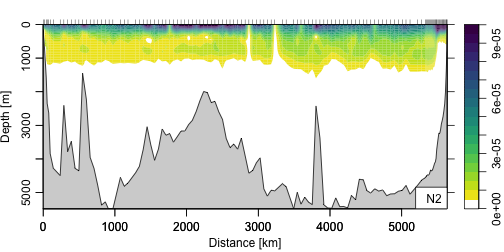
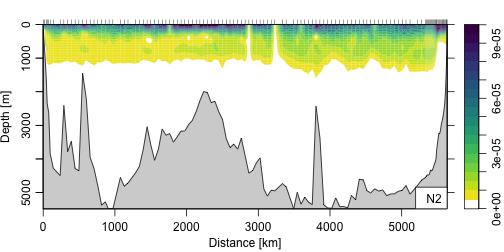
update N2 post

diff --git a/_posts/2016-02-29-calculating-N2-for-argo-section-objects.md b/_posts/2016-02-29-calculating-N2-for-argo-section-objects.md
@@ -61,13 +61,10 @@ Note that I've gridded the argo fields so the matrices are at consistent pressur
 
 {% highlight r %}
 N2 <- function(x) {
-    ok <- !is.na(x)
-    approx(argo[['pressure']][ok,1],
-           swN2(argo[['pressure']][ok,1], x[ok], df=50),
-           argo[['pressure']][,1])$y
+    swN2(argo[['pressure']][,1], x, df=50)
 }
 {% endhighlight %}
-This looks a bit complicated because of some details of the object contents and of the $$ N^2 $$ calculation. First, `swN2()` can't handle missing values in the density, so we identify them with the logical `ok`. Then, because we want the final $$ N^2 $$ profile to be at the same pressure levels as the input (but without the missing levels), we use `approx()` to interpolate. Also note that we can access the vector of pressures with `argo[['pressure']][ok,1]` because in R functions can look "up" to the parent environment for unspecified variables.
+<!--This looks a bit complicated because of some details of the object contents and of the $$ N^2 $$ calculation. First, `swN2()` can't handle missing values in the density, so we identify them with the logical `ok`. Then, because we want the final $$ N^2 $$ profile to be at the same pressure levels as the input (but without the missing levels), we use `approx()` to interpolate. Also note that we can access the vector of pressures with `argo[['pressure']][ok,1]` because in R functions can look "up" to the parent environment for unspecified variables.-->
 
 Now we use the above function `N2` to calculate buoyancy frequency and add it back to the original object, like:
 
